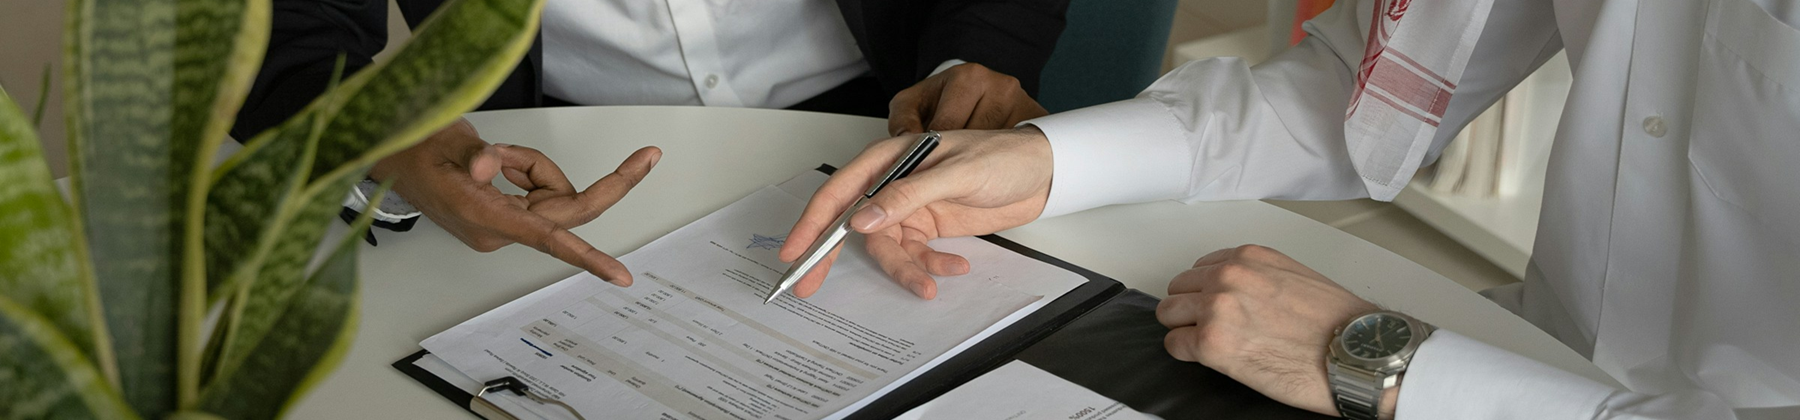
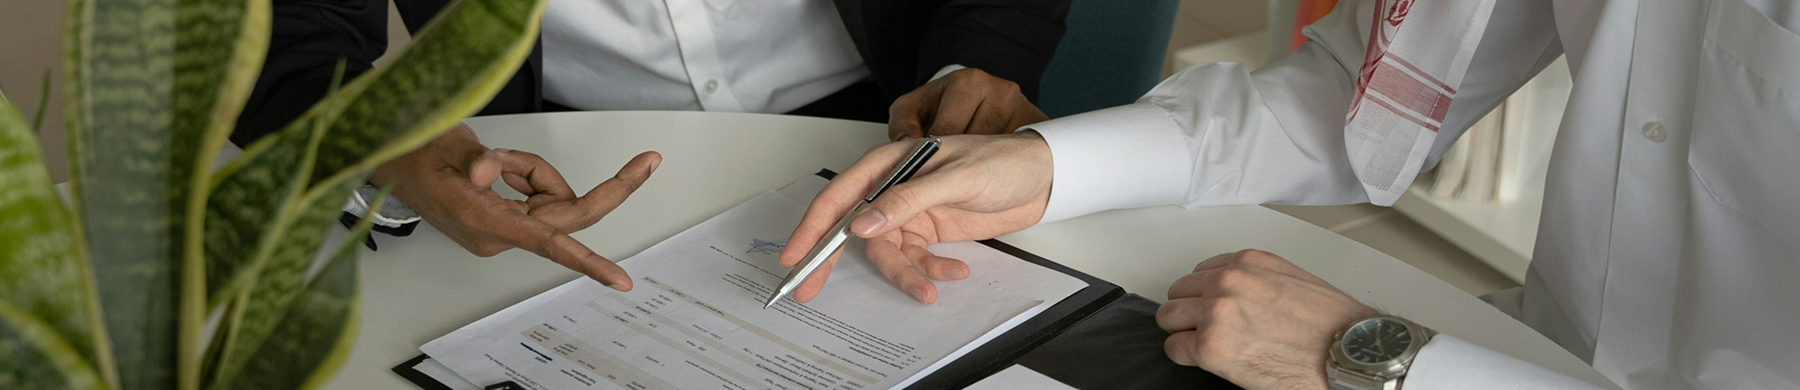
Ajustando imagens tamanho menor msm resolucao

diff --git a/src/app/pages/landing-page/landing-page.component.html b/src/app/pages/landing-page/landing-page.component.html
@@ -11,7 +11,7 @@
       [circular]="true"
     >
       <ng-template #item let-item>
-        <img [src]="item.itemImageSrc" style="width: 100%; max-height: 400px; display: block" />
+        <img [src]="item.itemImageSrc" style="width: 100%; display: block" />
       </ng-template>
       <ng-template #thumbnail let-item>
         <img [src]="item.thumbnailImageSrc" style="display: block" />
